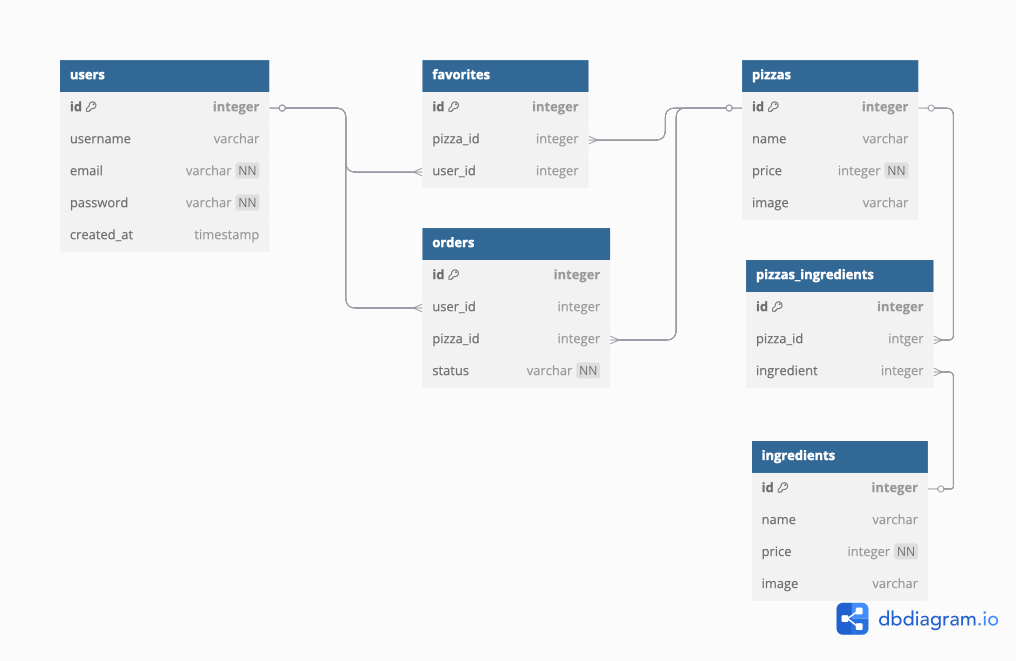
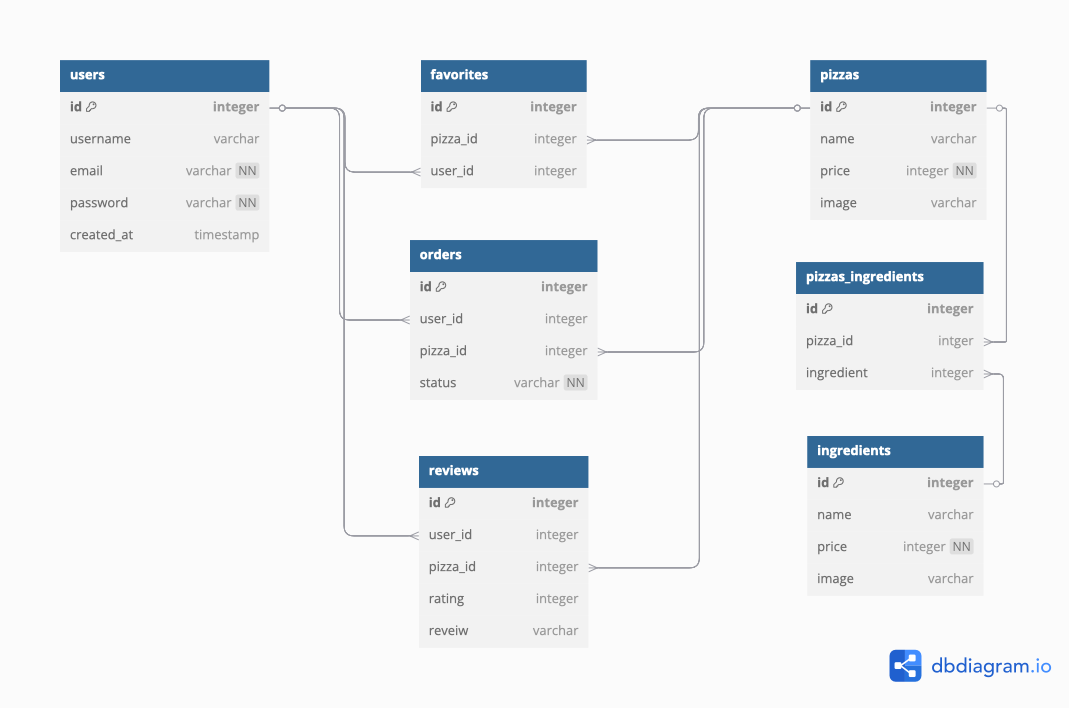
added updated db schema and APIs

diff --git a/README.md b/README.md
@@ -6,7 +6,7 @@ Author: [Ihor Lazarkov](https://ihorlazarkov.github.io/IhorLazarkov/)
 
 ## Tech stack
 
-<details>
+<details open>
     <summary> Tech Stack</summary>
     
 <img src="https://skillicons.dev/icons?i=html,css,javascript,react,redux,sequelize,vite,npm,nodejs,nginx,postgres,sqlite,git,github,vscode" heigth="40"></img>
@@ -42,5 +42,96 @@ Author: [Ihor Lazarkov](https://ihorlazarkov.github.io/IhorLazarkov/)
   <summary>DB schema</summary>
 
 ![db schema](./docs/frono_romo_db_schema.png)
+
+</details>
+
+## API specifications
+
+<details>
+    <summary>Add a review</summary>
+
+__Headers__
+
+    URI: /api/review
+    Method: POST
+    Body: {
+        "user_id": Number,
+        "pizza_id: Number,
+        "rating": Number,
+        "review": String
+    }
+
+__Response__
+
+    status: 201
+
+    response: 
+        {"message":"success"}
+
+</details>
+
+<details>
+    <summary>Get all ingredients</summary>
+
+__Headers__
+
+    URI: /api/ingredients
+    Method: GET
+
+__Response__
+
+    status: 200
+
+    response: 
+    [
+        {            
+            "name":String,
+            "image":String,
+            "price":Number
+        }
+    ]
+</details>
+
+<details >
+    <summary>Get all favorites</summary>
+
+__Headers__
+
+    URI: /api/session/favorites
+    Method: GET
+
+__Response__
+
+    status: 200
+
+    response: 
+    [
+        {            
+            "name":String,
+            "image":String
+        }
+    ]
+
+</details>
+
+<details >
+    <summary>Get all favorites</summary>
+
+__Headers__
+
+    URI: /api/session/favorites
+    Method: GET
+
+__Response__
+
+    status: 200
+
+    response: 
+    [
+        {            
+            "name":String,
+            "image":String
+        }
+    ]
 
 </details>
